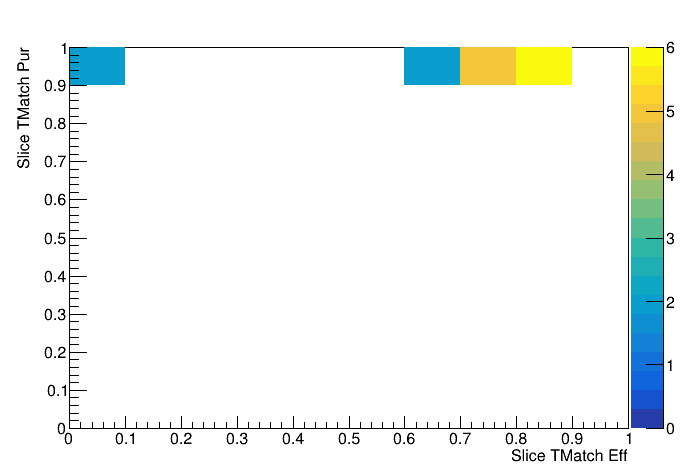
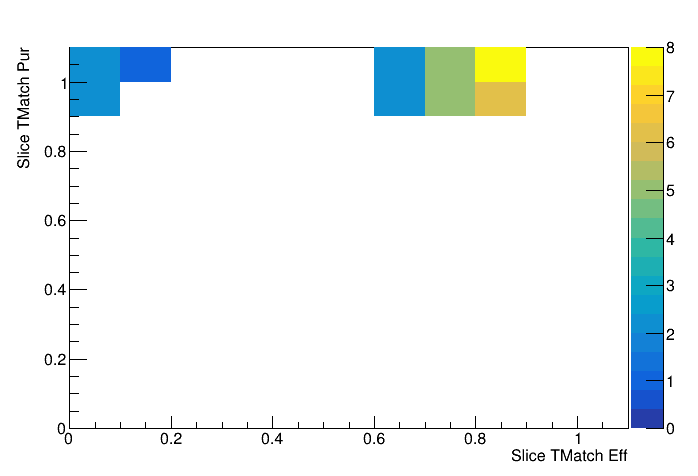
added plot change

diff --git a/pyROOT/Scripts/basic_analysis.py b/pyROOT/Scripts/basic_analysis.py
@@ -76,7 +76,7 @@ photon_trk_scores = []
 pfp_shw_true_pdgs = []
 
 # 2D histo to hold the eff vs purity of the slice truth matching
-h_2d_slc_pur_eff = ROOT.TH2D("h_2d_slc_pur_eff", "", 10, 0, 1, 10, 0, 1)
+h_2d_slc_pur_eff = ROOT.TH2D("h_2d_slc_pur_eff", "", 11, 0, 1.1, 11, 0, 1.1)
 h_2d_slc_pur_eff.GetXaxis().SetTitle("Slice TMatch Eff")
 h_2d_slc_pur_eff.GetYaxis().SetTitle("Slice TMatch Pur")
 
@@ -132,6 +132,9 @@ for event in recTree:
 	
 	# Loop over the slice info:
 	for num in range(len(slc_br["rec.slc.tmatch.eff"])):
+		if slc_br["rec.slc.tmatch.eff"][num] < 0 or slc_br["rec.slc.tmatch.pur"][num] < 0:
+			print("Strange: Negative Pur or Eff ???????????")
+
 		h_2d_slc_pur_eff.Fill(slc_br["rec.slc.tmatch.eff"][num], slc_br["rec.slc.tmatch.pur"][num])
 
 
